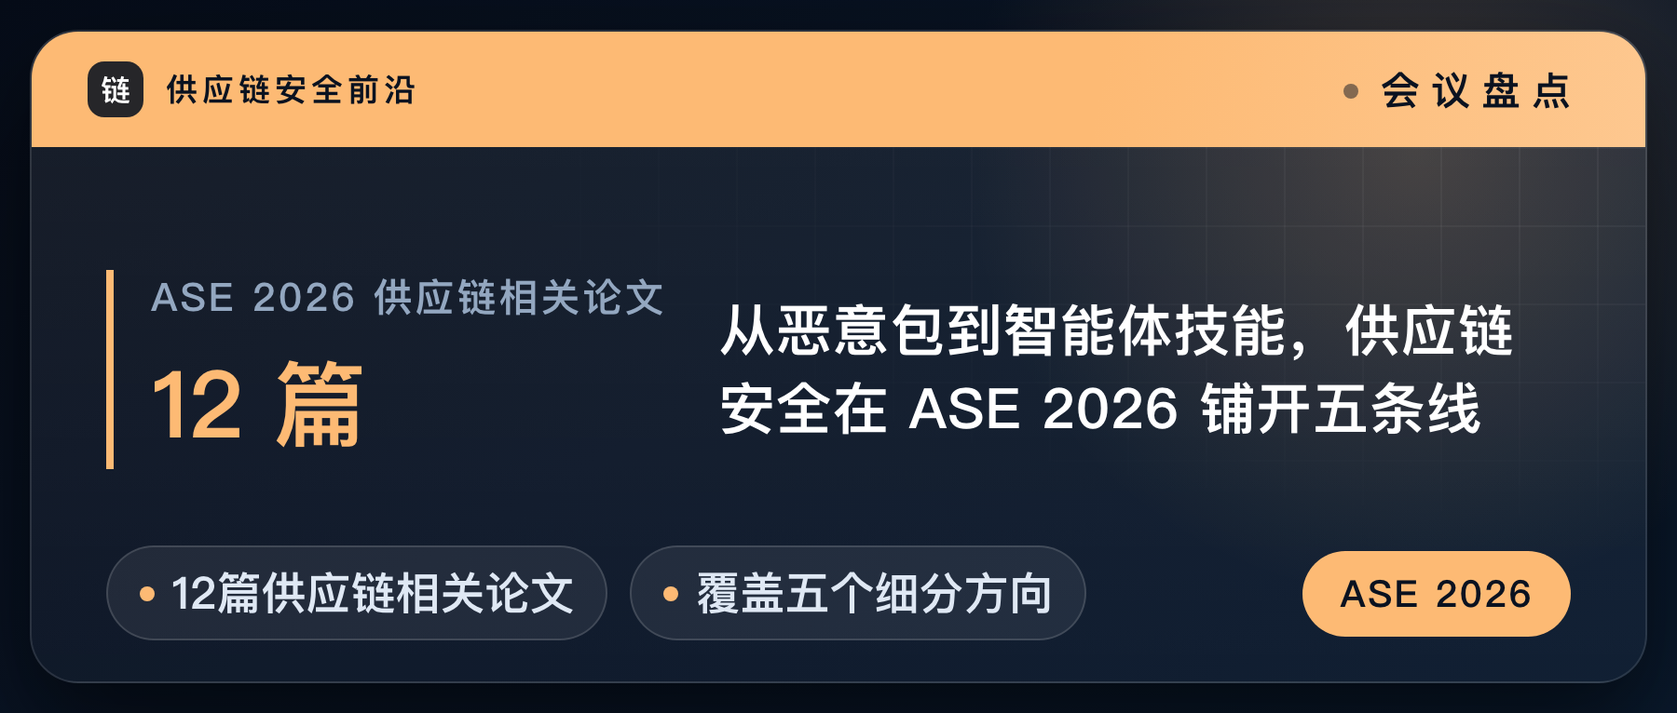
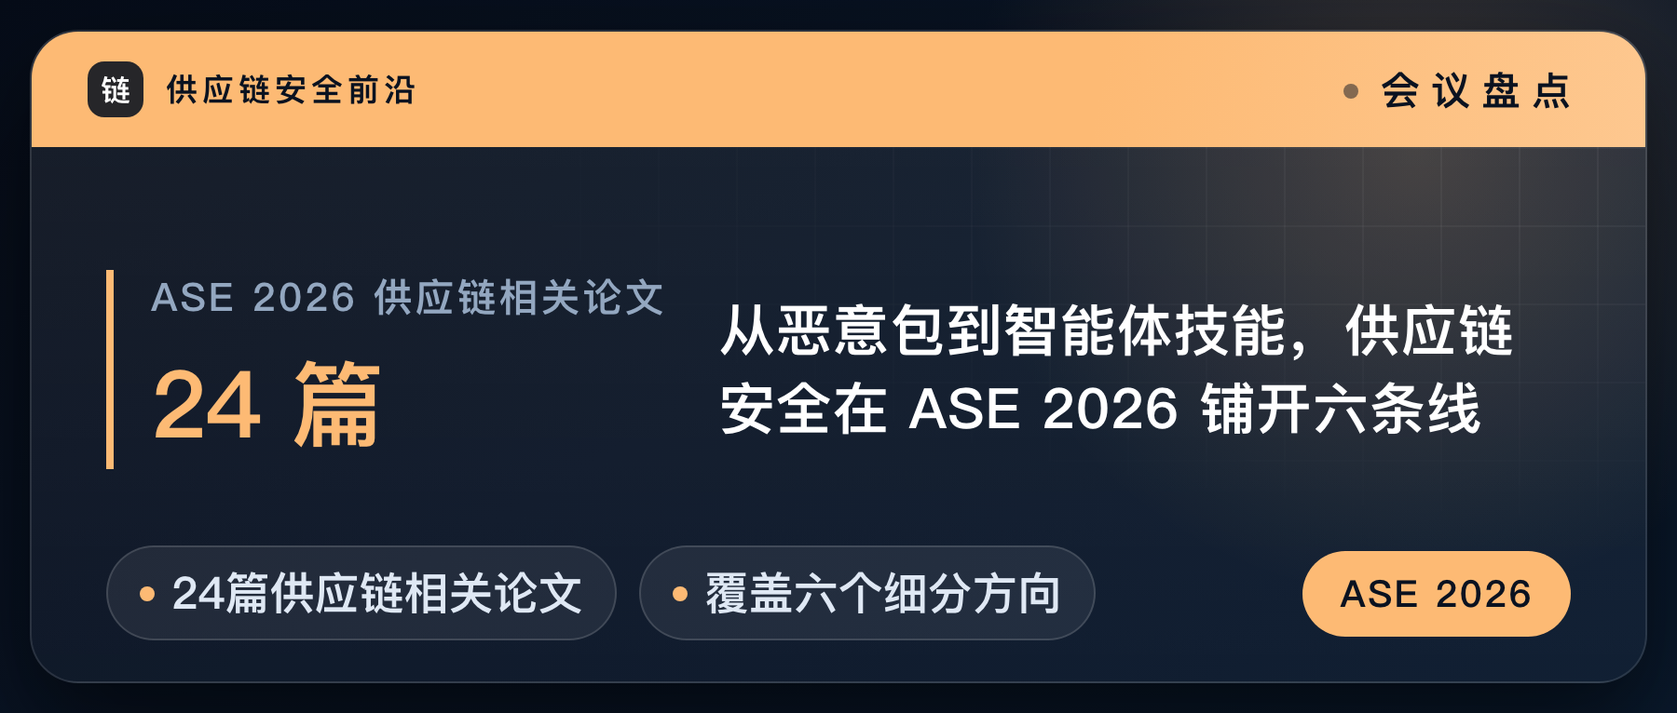
fix: 盘点文章去掉"单位没核实到"那节，全部并入正文并补齐导读
原来把 12 篇核到单位的放正表、8 篇没核到的只列标题堆在末尾，还专门解释了
为什么核不到。这个处理有两个毛病：末尾那批没有导读，读者看到一串光秃秃的
标题不知道是什么；而且把"作者单位"这个次要信息抬得太高，喧宾夺主。

改成：所有论文一律用卡片写，每篇都有导读，单位只在核实到时标注、核不到就不写。
Industry Showcase 轨那 4 篇也从一段流水账改成了独立卡片。

- 12 篇扩到 24 篇，分组从五组调成六组，新增"签名与发布防线"一组
  （签名信任验证 / 签名密钥保护 / commit-release 抓后门，今年这条线明显变粗）
- 概览图和封面数字同步更新为 24 篇
- 点评补了一段"信任根这条线变粗"的观察

Claude-Session: https://claude.ai/code/session_01RFo7RVhkE2z328iVJYUyTW

diff --git a/roundups/2026-08-ase2026-supply-chain/article.html b/roundups/2026-08-ase2026-supply-chain/article.html
@@ -1,1 +1,1 @@
-<section style="font-family:-apple-system,BlinkMacSystemFont,&quot;PingFang SC&quot;,sans-serif;padding:4px 2px;"><section style="margin:8px 0 28px;"><p style="margin:0 0 12px;font-size:12px;color:#94a3b8;letter-spacing:2px;">本文看点</p><section style="display:flex;"><section style="flex:1;background:#f7f9fb;border-top:3px solid #ea580c;border-radius:4px;padding:12px 10px;margin:0 4px;"><p style="margin:0;font-size:12px;color:#94a3b8;">01</p><p style="margin:6px 0 0;font-size:13px;font-weight:600;color:#333;line-height:1.5;">12篇供应链相关论文</p></section><section style="flex:1;background:#f7f9fb;border-top:3px solid #ea580c;border-radius:4px;padding:12px 10px;margin:0 4px;"><p style="margin:0;font-size:12px;color:#94a3b8;">02</p><p style="margin:6px 0 0;font-size:13px;font-weight:600;color:#333;line-height:1.5;">覆盖五个细分方向</p></section><section style="flex:1;background:#f7f9fb;border-top:3px solid #ea580c;border-radius:4px;padding:12px 10px;margin:0 4px;"><p style="margin:0;font-size:12px;color:#94a3b8;">03</p><p style="margin:6px 0 0;font-size:13px;font-weight:600;color:#333;line-height:1.5;">智能体供应链已成一支</p></section></section></section><section style="margin:36px 0 20px;"><p style="margin:0;font-size:44px;font-weight:800;color:#e2e8f0;line-height:1;">01</p><p style="margin:2px 0 0;font-size:11px;letter-spacing:3px;color:#94a3b8;">LIST INFO</p><p style="margin:6px 0 0;font-size:20px;font-weight:700;color:#222;">本期说明</p><section style="width:36px;height:3px;background:#ea580c;margin-top:8px;"></section></section><p style="margin:0 0 20px;font-size:15px;line-height:1.9;color:#3f3f3f;letter-spacing:.5px;text-align:justify;">【会议】ASE 2026，第 41 届 IEEE/ACM 自动化软件工程国际会议，2026 年 10 月 12 日至 16 日，德国慕尼黑<br/>【来源】ASE 2026 官方接收论文列表（研究轨与 Industry Showcase 轨）<br/>【口径】只收与<strong style="color:#ea580c;">软件供应链安全</strong>直接相关的，通用漏洞检测、模糊测试、程序修复这些即便沾安全也不收</p><section style="margin:20px 0;text-align:center;"><img src="assets/overview.png" style="max-width:100%;border-radius:4px;" /><p style="margin:8px 0 0;font-size:12px;color:#888888;text-align:center;line-height:1.6;">— ASE 2026 供应链相关论文的主题分布</p></section><p style="margin:0 0 20px;font-size:15px;line-height:1.9;color:#3f3f3f;letter-spacing:.5px;text-align:justify;">先把两件事说在前面，免得误导。</p><p style="margin:0 0 20px;font-size:15px;line-height:1.9;color:#3f3f3f;letter-spacing:.5px;text-align:justify;">其一，<strong style="color:#ea580c;">这份名单是我逐篇核过的，但不敢说全</strong>。ASE 2026 研究轨接收了 200 多篇，官方页面只给标题和作者名、不给单位，我是把接收列表按字母顺序整个过了一遍再自己判断相关性，不是丢几个关键词让工具筛。但抓取受限，字母 Q 到 Z 那一段我没能完整拿到，<strong style="color:#dc2626;">所以这一期确定覆盖 A 到 P，后半段可能有遗漏</strong>，欢迎在留言区补。</p><p style="margin:0 0 20px;font-size:15px;line-height:1.9;color:#3f3f3f;letter-spacing:.5px;text-align:justify;">其二，<strong style="color:#ea580c;">多数论文全文还没公开</strong>，ASE 要到十月才开会。所以下面每篇的介绍分两种：本账号已经读过全文的，写的是实际内容；其余的，介绍严格限制在标题和作者团队背景能支撑的范围内，不替作者把结论说满。凡是我核不到单位的，宁可不写进正表。</p><section style="margin:36px 0 20px;"><p style="margin:0;font-size:44px;font-weight:800;color:#e2e8f0;line-height:1;">02</p><p style="margin:2px 0 0;font-size:11px;letter-spacing:3px;color:#94a3b8;">PACKAGES</p><p style="margin:6px 0 0;font-size:20px;font-weight:700;color:#222;">包与生态治理</p><section style="width:36px;height:3px;background:#ea580c;margin-top:8px;"></section></section><section style="margin:18px 0;background:#f7f9fb;border-left:4px solid #ea580c;border-radius:0 6px 6px 0;padding:14px 18px;"><p style="margin:0;font-size:11px;letter-spacing:2px;color:#94a3b8;">01</p><p style="margin:4px 0 0;font-size:15px;font-weight:700;color:#1f2937;line-height:1.55;">How Effective Are NPM Malicious Package Detectors? A Large-Scale Empirical Study</p><p style="margin:10px 0 0;padding-bottom:9px;border-bottom:1px solid #e3e8ee;font-size:13px;color:#ea580c;font-weight:600;line-height:1.6;">南洋理工大学、四川大学、南开大学、新加坡管理大学、Imperial Global Singapore</p><p style="margin:11px 0 0;font-size:14px;line-height:1.85;color:#3f3f3f;letter-spacing:.3px;text-align:justify;">NPM 恶意包检测工具这几年出了一堆，但各自在不同数据集、不同口径上自评，横向没法比。这篇把它们拉到统一数据集和统一设置下做大规模实测。<strong style="color:#ea580c;">本账号已解读过</strong>，结论对做检测的人挺不客气。</p></section><section style="margin:18px 0;background:#f7f9fb;border-left:4px solid #ea580c;border-radius:0 6px 6px 0;padding:14px 18px;"><p style="margin:0;font-size:11px;letter-spacing:2px;color:#94a3b8;">02</p><p style="margin:4px 0 0;font-size:15px;font-weight:700;color:#1f2937;line-height:1.55;">GANADI: Uncovering C/C++ OSS Reuse Genealogies via Pivotal Function-Based Clustering to Enhance Supply Chain Security</p><p style="margin:10px 0 0;padding-bottom:9px;border-bottom:1px solid #e3e8ee;font-size:13px;color:#ea580c;font-weight:600;line-height:1.6;">高丽大学</p><p style="margin:11px 0 0;font-size:14px;line-height:1.85;color:#3f3f3f;letter-spacing:.3px;text-align:justify;">C/C++ 世界没有统一的包管理器，代码复用大量靠复制粘贴和 vendoring，所以"这段代码到底源自哪个上游项目"是个真问题，也是漏洞传播分析的前提。这篇用关键函数聚类去还原开源代码的<strong style="color:#ea580c;">复用谱系</strong>。高丽大学这个组在 C/C++ 复用与漏洞传播方向做了很多年。</p></section><section style="margin:18px 0;background:#f7f9fb;border-left:4px solid #ea580c;border-radius:0 6px 6px 0;padding:14px 18px;"><p style="margin:0;font-size:11px;letter-spacing:2px;color:#94a3b8;">03</p><p style="margin:4px 0 0;font-size:15px;font-weight:700;color:#1f2937;line-height:1.55;">ATLAS: Agentic Taxonomy of LArge-Scale Software Ecosystems</p><p style="margin:10px 0 0;padding-bottom:9px;border-bottom:1px solid #e3e8ee;font-size:13px;color:#ea580c;font-weight:600;line-height:1.6;">南开大学、南洋理工大学</p><p style="margin:11px 0 0;font-size:14px;line-height:1.85;color:#3f3f3f;letter-spacing:.3px;text-align:justify;">用智能体给大规模软件生态自动建<strong style="color:#ea580c;">分类体系</strong>。生态治理的第一步是知道生态里有什么、怎么分类，这类基础设施性质的工作往往被低估，但下游的风险度量、依赖分析都依赖它。</p></section><section style="margin:36px 0 20px;"><p style="margin:0;font-size:44px;font-weight:800;color:#e2e8f0;line-height:1;">03</p><p style="margin:2px 0 0;font-size:11px;letter-spacing:3px;color:#94a3b8;">AGENTS</p><p style="margin:6px 0 0;font-size:20px;font-weight:700;color:#222;">智能体供应链</p><section style="width:36px;height:3px;background:#ea580c;margin-top:8px;"></section></section><p style="margin:0 0 20px;font-size:15px;line-height:1.9;color:#3f3f3f;letter-spacing:.5px;text-align:justify;">这是这批里最新的一支，三篇全是围绕 Agent Skill 生态的。</p><section style="margin:18px 0;background:#f7f9fb;border-left:4px solid #ea580c;border-radius:0 6px 6px 0;padding:14px 18px;"><p style="margin:0;font-size:11px;letter-spacing:2px;color:#94a3b8;">04</p><p style="margin:4px 0 0;font-size:15px;font-weight:700;color:#1f2937;line-height:1.55;">MalSkills: Detecting Malicious Skills in the Agentic Supply Chain via Neuro-symbolic Reasoning</p><p style="margin:10px 0 0;padding-bottom:9px;border-bottom:1px solid #e3e8ee;font-size:13px;color:#ea580c;font-weight:600;line-height:1.6;">华中科技大学、蚂蚁集团</p><p style="margin:11px 0 0;font-size:14px;line-height:1.85;color:#3f3f3f;letter-spacing:.3px;text-align:justify;">用神经符号推理检测恶意技能：先从异构制品里抽出安全敏感操作，再做符号推理判定。<strong style="color:#ea580c;">本账号已解读过</strong>，不过要注意，<strong style="color:#dc2626;">它的预印本标题和 ASE 正式版完全不同</strong>（预印本叫《"Elementary, My Dear Watson."…》），同一批作者、同一个系统。这正是查论文时最容易踩的坑：只匹配标题会把同一篇当成两篇。</p></section><section style="margin:18px 0;background:#f7f9fb;border-left:4px solid #ea580c;border-radius:0 6px 6px 0;padding:14px 18px;"><p style="margin:0;font-size:11px;letter-spacing:2px;color:#94a3b8;">05</p><p style="margin:4px 0 0;font-size:15px;font-weight:700;color:#1f2937;line-height:1.55;">Latent Reuse in Agent Skills: Multi-modal Clone Detection at Ecosystem Scale</p><p style="margin:10px 0 0;padding-bottom:9px;border-bottom:1px solid #e3e8ee;font-size:13px;color:#ea580c;font-weight:600;line-height:1.6;">南洋理工大学</p><p style="margin:11px 0 0;font-size:14px;line-height:1.85;color:#3f3f3f;letter-spacing:.3px;text-align:justify;">在整个技能生态尺度上做<strong style="color:#ea580c;">多模态克隆检测</strong>。技能不是纯代码，是提示词、脚本、配置和资源的混合体，传统代码克隆检测的那套在这里不够用。找出"哪些技能其实是同一份东西的变体"，对追踪恶意技能的扩散和评估生态真实多样性都是前置能力。</p></section><section style="margin:18px 0;background:#f7f9fb;border-left:4px solid #ea580c;border-radius:0 6px 6px 0;padding:14px 18px;"><p style="margin:0;font-size:11px;letter-spacing:2px;color:#94a3b8;">06</p><p style="margin:4px 0 0;font-size:15px;font-weight:700;color:#1f2937;line-height:1.55;">How Your Credentials Are Leaked by LLM Agent Skills: An Empirical Study</p><p style="margin:10px 0 0;padding-bottom:9px;border-bottom:1px solid #e3e8ee;font-size:13px;color:#ea580c;font-weight:600;line-height:1.6;">格里菲斯大学、维克森林大学、南洋理工大学、新南威尔士大学等</p><p style="margin:11px 0 0;font-size:14px;line-height:1.85;color:#3f3f3f;letter-spacing:.3px;text-align:justify;">第一个针对智能体技能<strong style="color:#ea580c;">凭据泄露</strong>的大规模实证研究。技能运行在特权环境里、日常要处理敏感凭据，这条路径此前基本没人系统查过。<strong style="color:#ea580c;">本账号已解读过</strong>。</p></section><section style="margin:36px 0 20px;"><p style="margin:0;font-size:44px;font-weight:800;color:#e2e8f0;line-height:1;">04</p><p style="margin:2px 0 0;font-size:11px;letter-spacing:3px;color:#94a3b8;">DEPS</p><p style="margin:6px 0 0;font-size:20px;font-weight:700;color:#222;">依赖与构建</p><section style="width:36px;height:3px;background:#ea580c;margin-top:8px;"></section></section><section style="margin:18px 0;background:#f7f9fb;border-left:4px solid #ea580c;border-radius:0 6px 6px 0;padding:14px 18px;"><p style="margin:0;font-size:11px;letter-spacing:2px;color:#94a3b8;">07</p><p style="margin:4px 0 0;font-size:15px;font-weight:700;color:#1f2937;line-height:1.55;">Implicit, Yet Impactful: Understanding Hidden Dependencies in Java Projects</p><p style="margin:10px 0 0;padding-bottom:9px;border-bottom:1px solid #e3e8ee;font-size:13px;color:#ea580c;font-weight:600;line-height:1.6;">南洋理工大学、南开大学</p><p style="margin:11px 0 0;font-size:14px;line-height:1.85;color:#3f3f3f;letter-spacing:.3px;text-align:justify;">讲 Java 项目里的<strong style="color:#ea580c;">隐式依赖</strong>：没有写在依赖声明里、但实际被用到的那些。这类依赖是依赖分析和 SBOM 的系统性盲区，声明文件里看不见，可它出问题一样会炸。</p></section><section style="margin:18px 0;background:#f7f9fb;border-left:4px solid #ea580c;border-radius:0 6px 6px 0;padding:14px 18px;"><p style="margin:0;font-size:11px;letter-spacing:2px;color:#94a3b8;">08</p><p style="margin:4px 0 0;font-size:15px;font-weight:700;color:#1f2937;line-height:1.55;">DepUpgrade: Automating Dependency Upgrade through State-Path Exploration</p><p style="margin:10px 0 0;padding-bottom:9px;border-bottom:1px solid #e3e8ee;font-size:13px;color:#ea580c;font-weight:600;line-height:1.6;">北京航空航天大学</p><p style="margin:11px 0 0;font-size:14px;line-height:1.85;color:#3f3f3f;letter-spacing:.3px;text-align:justify;">用状态路径探索来自动化<strong style="color:#ea580c;">依赖升级</strong>。升级依赖是所有供应链安全建议的最后一公里，也是最容易卡住的一环：修复存在、但升不上去。这个方向和补丁回移是同一个问题的两种形态。</p></section><section style="margin:36px 0 20px;"><p style="margin:0;font-size:44px;font-weight:800;color:#e2e8f0;line-height:1;">05</p><p style="margin:2px 0 0;font-size:11px;letter-spacing:3px;color:#94a3b8;">PATCH</p><p style="margin:6px 0 0;font-size:20px;font-weight:700;color:#222;">漏洞与补丁的传播</p><section style="width:36px;height:3px;background:#ea580c;margin-top:8px;"></section></section><section style="margin:18px 0;background:#f7f9fb;border-left:4px solid #ea580c;border-radius:0 6px 6px 0;padding:14px 18px;"><p style="margin:0;font-size:11px;letter-spacing:2px;color:#94a3b8;">09</p><p style="margin:4px 0 0;font-size:15px;font-weight:700;color:#1f2937;line-height:1.55;">Benchmarking Automated Security Patch Backporting: How Far Are We?</p><p style="margin:10px 0 0;padding-bottom:9px;border-bottom:1px solid #e3e8ee;font-size:13px;color:#ea580c;font-weight:600;line-height:1.6;">西安电子科技大学、南开大学、南洋理工大学</p><p style="margin:11px 0 0;font-size:14px;line-height:1.85;color:#3f3f3f;letter-spacing:.3px;text-align:justify;">1234 例真实回移案例的统一基准，把五个自动回移工具拉到同一张考卷上。<strong style="color:#ea580c;">本账号已解读过</strong>，核心结论是对齐评测后成功率集体跳水，结构复杂的补丁只剩 24%。</p></section><section style="margin:18px 0;background:#f7f9fb;border-left:4px solid #ea580c;border-radius:0 6px 6px 0;padding:14px 18px;"><p style="margin:0;font-size:11px;letter-spacing:2px;color:#94a3b8;">10</p><p style="margin:4px 0 0;font-size:15px;font-weight:700;color:#1f2937;line-height:1.55;">One Is Not Enough: The Untold Story of Multiple Security Patches for One Vulnerability</p><p style="margin:10px 0 0;padding-bottom:9px;border-bottom:1px solid #e3e8ee;font-size:13px;color:#ea580c;font-weight:600;line-height:1.6;">南开大学、南洋理工大学</p><p style="margin:11px 0 0;font-size:14px;line-height:1.85;color:#3f3f3f;letter-spacing:.3px;text-align:justify;">一个漏洞<strong style="color:#ea580c;">不止一个补丁</strong>。这件事对下游影响很直接：如果你的扫描器认定"打了某个补丁就算修复"，而上游实际上分了多次提交才补完，那你的合规状态就是假的。这类"看起来已修复"的情形，比未修复更危险。</p></section><section style="margin:18px 0;background:#f7f9fb;border-left:4px solid #ea580c;border-radius:0 6px 6px 0;padding:14px 18px;"><p style="margin:0;font-size:11px;letter-spacing:2px;color:#94a3b8;">11</p><p style="margin:4px 0 0;font-size:15px;font-weight:700;color:#1f2937;line-height:1.55;">Post-quantum Cryptography in the Wild: Assessing the Readiness of Open-Source Ecosystems</p><p style="margin:10px 0 0;padding-bottom:9px;border-bottom:1px solid #e3e8ee;font-size:13px;color:#ea580c;font-weight:600;line-height:1.6;">上海交通大学</p><p style="margin:11px 0 0;font-size:14px;line-height:1.85;color:#3f3f3f;letter-spacing:.3px;text-align:justify;">评估开源生态迁移到<strong style="color:#ea580c;">后量子密码</strong>的就绪度。这是一次超大规模的强制依赖升级预演，牵涉到密码库、协议实现和它们所有的下游，跟前面那两篇讲的是同一类问题：<strong style="color:#ea580c;">修复能不能真的传到底</strong>。</p></section><section style="margin:36px 0 20px;"><p style="margin:0;font-size:44px;font-weight:800;color:#e2e8f0;line-height:1;">06</p><p style="margin:2px 0 0;font-size:11px;letter-spacing:3px;color:#94a3b8;">COMMIT</p><p style="margin:6px 0 0;font-size:20px;font-weight:700;color:#222;">提交与发布防线</p><section style="width:36px;height:3px;background:#ea580c;margin-top:8px;"></section></section><section style="margin:18px 0;background:#f7f9fb;border-left:4px solid #ea580c;border-radius:0 6px 6px 0;padding:14px 18px;"><p style="margin:0;font-size:11px;letter-spacing:2px;color:#94a3b8;">12</p><p style="margin:4px 0 0;font-size:15px;font-weight:700;color:#1f2937;line-height:1.55;">Not In My Git Yard: Catching Backdoors at Commit and Release Time</p><p style="margin:10px 0 0;padding-bottom:9px;border-bottom:1px solid #e3e8ee;font-size:13px;color:#ea580c;font-weight:600;line-height:1.6;">巴黎萨克雷大学、法国原子能委员会 CEA List</p><p style="margin:11px 0 0;font-size:14px;line-height:1.85;color:#3f3f3f;letter-spacing:.3px;text-align:justify;">在<strong style="color:#ea580c;">提交和发布这两个时间点</strong>上抓后门。这个选点很务实：包一旦发布出去，检测就变成了跟分发速度赛跑；而 commit 和 release 是攻击者必须经过的两道闸门，卡在这里成本最低。</p></section><section style="margin:36px 0 20px;"><p style="margin:0;font-size:44px;font-weight:800;color:#e2e8f0;line-height:1;">07</p><p style="margin:2px 0 0;font-size:11px;letter-spacing:3px;color:#94a3b8;">MORE</p><p style="margin:6px 0 0;font-size:20px;font-weight:700;color:#222;">同样相关，但单位没核实到</p><section style="width:36px;height:3px;background:#ea580c;margin-top:8px;"></section></section><p style="margin:0 0 20px;font-size:15px;line-height:1.9;color:#3f3f3f;letter-spacing:.5px;text-align:justify;">下面这些从标题看也属于供应链安全的范畴，但我没能核实到作者单位（researchr 的作者主页有的设了私密，有的重名对不上），按只写核实过的原则没进正表，标题先列在这里供检索：</p><p style="margin:0 0 20px;font-size:15px;line-height:1.9;color:#3f3f3f;letter-spacing:.5px;text-align:justify;">- Context-Aware Trust Verification for Identity-Based Software Signing（软件签名的信任验证）<br/>- Guided Decoding as a Defense against Package Hallucination in LLM-Generated Code（防包幻觉）<br/>- A Longitudinal Study of Android Apps Signing Key Protection（签名密钥保护的纵向研究）<br/>- Defensive Capability Analysis for JavaScript Libraries（JS 库的防御能力分析）<br/>- Execution-as-Configuration: Security Smells in Model Configuration Artifacts（模型配置制品里的安全坏味）<br/>- Assessing the Cross-Version Applicability of Java Library Vulnerability Exploits（Java 库漏洞利用的跨版本适用性）<br/>- Learning to Triage Vulnerability Reports from Program Analysis: An Empirical Study in Node.js（Node.js 漏洞报告分诊）<br/>- "Impossible to Hide Secret ...": Uncovering Security and Privacy Issues in LLM-Native IDEs（AI 原生 IDE 的安全与隐私问题）</p><p style="margin:0 0 20px;font-size:15px;line-height:1.9;color:#3f3f3f;letter-spacing:.5px;text-align:justify;">Industry Showcase 轨里也有几篇沾边的，一并记下：DepWareTrans（依赖感知的跨语言仓库迁移）、AgenticSCR（自主智能体做安全代码审查）、Vulnerability Tracking using Normalized Scope+Offset（漏洞追踪）、An Empirical Study of Security Risks in the Android Push Notification Ecosystem（安卓推送生态的安全风险）。</p><section style="margin:36px 0 20px;"><p style="margin:0;font-size:44px;font-weight:800;color:#e2e8f0;line-height:1;">08</p><p style="margin:2px 0 0;font-size:11px;letter-spacing:3px;color:#94a3b8;">TAKEAWAYS</p><p style="margin:6px 0 0;font-size:20px;font-weight:700;color:#222;">一点观察</p><section style="width:36px;height:3px;background:#ea580c;margin-top:8px;"></section></section><p style="margin:0 0 20px;font-size:15px;line-height:1.9;color:#3f3f3f;letter-spacing:.5px;text-align:justify;"><strong style="color:#ea580c;">智能体供应链已经单独成一支了。</strong> 三篇 Agent Skill 相关的论文进入 ASE 主轨，而且分工很清楚：一篇做恶意检测，一篇做生态级克隆识别，一篇做凭据泄露实证。这个结构和十年前包生态刚起步时几乎一模一样，先有人发现恶意样本，再有人做规模化测量，然后才是检测工具和治理机制。<strong style="color:#dc2626;">技能生态正在用比包生态快得多的速度，重走同一条路</strong>。</p><p style="margin:0 0 20px;font-size:15px;line-height:1.9;color:#3f3f3f;letter-spacing:.5px;text-align:justify;"><strong style="color:#ea580c;">"修复传不到底"是这批论文最集中的母题。</strong> 补丁回移、一个漏洞多个补丁、依赖升级自动化、后量子迁移就绪度，四篇讲的其实是同一件事的不同切面：漏洞的修复往往是存在的，真正的风险在于它到不了所有下游。这个判断从数据上比"某某组件有漏洞"要更有行动价值，因为它指向的是流程和工具，而不是某一个具体的洞。</p><p style="margin:0 0 20px;font-size:15px;line-height:1.9;color:#3f3f3f;letter-spacing:.5px;text-align:justify;"><strong style="color:#ea580c;">方法论上有个共同转向：从"检测单个制品"转向"理解整个生态的结构"。</strong> 复用谱系、生态分类体系、隐式依赖、克隆关系，这几篇都不是在判断某个包是好是坏，而是在还原"谁来自谁、谁包含谁"。这种结构性知识才是风险传播分析的底座，也是目前最缺的基础设施。</p><p style="margin:0 0 20px;font-size:15px;line-height:1.9;color:#3f3f3f;letter-spacing:.5px;text-align:justify;"><strong style="color:#ea580c;">最后一句关于团队分布</strong>：南开大学和南洋理工大学的团队在这批里出现得最密集，多篇之间还互为合作。国内做软件供应链安全的力量已经在顶会形成了稳定的输出，这在几年前还看不到。</p></section>
+<section style="font-family:-apple-system,BlinkMacSystemFont,&quot;PingFang SC&quot;,sans-serif;padding:4px 2px;"><section style="margin:8px 0 28px;"><p style="margin:0 0 12px;font-size:12px;color:#94a3b8;letter-spacing:2px;">本文看点</p><section style="display:flex;"><section style="flex:1;background:#f7f9fb;border-top:3px solid #ea580c;border-radius:4px;padding:12px 10px;margin:0 4px;"><p style="margin:0;font-size:12px;color:#94a3b8;">01</p><p style="margin:6px 0 0;font-size:13px;font-weight:600;color:#333;line-height:1.5;">24篇供应链相关论文</p></section><section style="flex:1;background:#f7f9fb;border-top:3px solid #ea580c;border-radius:4px;padding:12px 10px;margin:0 4px;"><p style="margin:0;font-size:12px;color:#94a3b8;">02</p><p style="margin:6px 0 0;font-size:13px;font-weight:600;color:#333;line-height:1.5;">覆盖六个细分方向</p></section><section style="flex:1;background:#f7f9fb;border-top:3px solid #ea580c;border-radius:4px;padding:12px 10px;margin:0 4px;"><p style="margin:0;font-size:12px;color:#94a3b8;">03</p><p style="margin:6px 0 0;font-size:13px;font-weight:600;color:#333;line-height:1.5;">智能体供应链已成一支</p></section></section></section><section style="margin:36px 0 20px;"><p style="margin:0;font-size:44px;font-weight:800;color:#e2e8f0;line-height:1;">01</p><p style="margin:2px 0 0;font-size:11px;letter-spacing:3px;color:#94a3b8;">LIST INFO</p><p style="margin:6px 0 0;font-size:20px;font-weight:700;color:#222;">本期说明</p><section style="width:36px;height:3px;background:#ea580c;margin-top:8px;"></section></section><p style="margin:0 0 20px;font-size:15px;line-height:1.9;color:#3f3f3f;letter-spacing:.5px;text-align:justify;">【会议】ASE 2026，第 41 届 IEEE/ACM 自动化软件工程国际会议，2026 年 10 月 12 日至 16 日，德国慕尼黑<br/>【来源】ASE 2026 官方接收论文列表（研究轨与 Industry Showcase 轨）<br/>【口径】只收与<strong style="color:#ea580c;">软件供应链安全</strong>直接相关的，通用漏洞检测、模糊测试、程序修复这些即便沾安全也不收</p><section style="margin:20px 0;text-align:center;"><img src="assets/overview.png" style="max-width:100%;border-radius:4px;" /><p style="margin:8px 0 0;font-size:12px;color:#888888;text-align:center;line-height:1.6;">— ASE 2026 供应链相关论文的主题分布</p></section><p style="margin:0 0 20px;font-size:15px;line-height:1.9;color:#3f3f3f;letter-spacing:.5px;text-align:justify;">先把两件事说在前面，免得误导。</p><p style="margin:0 0 20px;font-size:15px;line-height:1.9;color:#3f3f3f;letter-spacing:.5px;text-align:justify;">其一，<strong style="color:#ea580c;">这份名单是逐篇过出来的，但不敢说全</strong>。ASE 2026 研究轨接收了 200 多篇，我是把接收列表按字母顺序整个过了一遍再自己判断相关性，不是丢几个关键词让工具筛。但抓取受限，字母 Q 到 Z 那一段没能完整拿到，<strong style="color:#dc2626;">所以这一期确定覆盖 A 到 P，后半段可能有遗漏</strong>，欢迎在留言区补。</p><p style="margin:0 0 20px;font-size:15px;line-height:1.9;color:#3f3f3f;letter-spacing:.5px;text-align:justify;">其二，<strong style="color:#ea580c;">多数论文全文还没公开</strong>，ASE 要到十月才开会。所以下面每篇的介绍分两种：本账号已经读过全文的，写的是实际内容；其余的，介绍严格限制在标题能支撑的范围内，不替作者把结论说满。作者单位只在核实到的时候标注。</p><section style="margin:36px 0 20px;"><p style="margin:0;font-size:44px;font-weight:800;color:#e2e8f0;line-height:1;">02</p><p style="margin:2px 0 0;font-size:11px;letter-spacing:3px;color:#94a3b8;">PACKAGES</p><p style="margin:6px 0 0;font-size:20px;font-weight:700;color:#222;">包与生态治理</p><section style="width:36px;height:3px;background:#ea580c;margin-top:8px;"></section></section><section style="margin:18px 0;background:#f7f9fb;border-left:4px solid #ea580c;border-radius:0 6px 6px 0;padding:14px 18px;"><p style="margin:0;font-size:11px;letter-spacing:2px;color:#94a3b8;">01</p><p style="margin:4px 0 0;font-size:15px;font-weight:700;color:#1f2937;line-height:1.55;">How Effective Are NPM Malicious Package Detectors? A Large-Scale Empirical Study</p><p style="margin:10px 0 0;padding-bottom:9px;border-bottom:1px solid #e3e8ee;font-size:13px;color:#ea580c;font-weight:600;line-height:1.6;">南洋理工大学、四川大学、南开大学、新加坡管理大学、Imperial Global Singapore</p><p style="margin:11px 0 0;font-size:14px;line-height:1.85;color:#3f3f3f;letter-spacing:.3px;text-align:justify;">NPM 恶意包检测工具这几年出了一堆，但各自在不同数据集、不同口径上自评，横向没法比。这篇把它们拉到统一数据集和统一设置下做大规模实测。<strong style="color:#ea580c;">本账号已解读过</strong>，结论对做检测的人挺不客气。</p></section><section style="margin:18px 0;background:#f7f9fb;border-left:4px solid #ea580c;border-radius:0 6px 6px 0;padding:14px 18px;"><p style="margin:0;font-size:11px;letter-spacing:2px;color:#94a3b8;">02</p><p style="margin:4px 0 0;font-size:15px;font-weight:700;color:#1f2937;line-height:1.55;">GANADI: Uncovering C/C++ OSS Reuse Genealogies via Pivotal Function-Based Clustering to Enhance Supply Chain Security</p><p style="margin:10px 0 0;padding-bottom:9px;border-bottom:1px solid #e3e8ee;font-size:13px;color:#ea580c;font-weight:600;line-height:1.6;">高丽大学</p><p style="margin:11px 0 0;font-size:14px;line-height:1.85;color:#3f3f3f;letter-spacing:.3px;text-align:justify;">C/C++ 世界没有统一的包管理器，代码复用大量靠复制粘贴和 vendoring，所以"这段代码到底源自哪个上游项目"是个真问题，也是漏洞传播分析的前提。这篇用关键函数聚类去还原开源代码的<strong style="color:#ea580c;">复用谱系</strong>。</p></section><section style="margin:18px 0;background:#f7f9fb;border-left:4px solid #ea580c;border-radius:0 6px 6px 0;padding:14px 18px;"><p style="margin:0;font-size:11px;letter-spacing:2px;color:#94a3b8;">03</p><p style="margin:4px 0 0;font-size:15px;font-weight:700;color:#1f2937;line-height:1.55;">ATLAS: Agentic Taxonomy of LArge-Scale Software Ecosystems</p><p style="margin:10px 0 0;padding-bottom:9px;border-bottom:1px solid #e3e8ee;font-size:13px;color:#ea580c;font-weight:600;line-height:1.6;">南开大学、南洋理工大学</p><p style="margin:11px 0 0;font-size:14px;line-height:1.85;color:#3f3f3f;letter-spacing:.3px;text-align:justify;">用智能体给大规模软件生态自动建<strong style="color:#ea580c;">分类体系</strong>。生态治理的第一步是知道生态里有什么、怎么分类，这类基础设施性质的工作往往被低估，但下游的风险度量、依赖分析都依赖它。</p></section><section style="margin:18px 0;background:#f7f9fb;border-left:4px solid #ea580c;border-radius:0 6px 6px 0;padding:14px 18px;"><p style="margin:0;font-size:11px;letter-spacing:2px;color:#94a3b8;">04</p><p style="margin:4px 0 0;font-size:15px;font-weight:700;color:#1f2937;line-height:1.55;">Guided Decoding as a Defense against Package Hallucination in LLM-Generated Code</p><p style="margin:10px 0 0;padding-bottom:9px;border-bottom:1px solid #e3e8ee;font-size:13px;color:#ea580c;font-weight:600;line-height:1.6;">大模型写代码时会凭空编出根本不存在的依赖包，攻击者只要抢注这些名字就能坐等开发者装上门。这篇不是事后检测，而是在<strong style="color:#ea580c;">解码阶段</strong>就约束模型只生成真实存在的包名，把幻觉堵在生成环节。本账号解读过包幻觉的大规模实证，这篇正好是防御侧的对应工作。</p></section><section style="margin:18px 0;background:#f7f9fb;border-left:4px solid #ea580c;border-radius:0 6px 6px 0;padding:14px 18px;"><p style="margin:0;font-size:11px;letter-spacing:2px;color:#94a3b8;">05</p><p style="margin:4px 0 0;font-size:15px;font-weight:700;color:#1f2937;line-height:1.55;">Defensive Capability Analysis for JavaScript Libraries</p><p style="margin:10px 0 0;padding-bottom:9px;border-bottom:1px solid #e3e8ee;font-size:13px;color:#ea580c;font-weight:600;line-height:1.6;">分析 JavaScript 库自身的<strong style="color:#ea580c;">防御能力</strong>。同样是被依赖的库，有的对恶意输入和滥用有防护，有的完全不设防，而下游在选型时几乎看不到这个维度。把库的防御能力量化出来，本质上是给依赖选型补一个此前缺失的指标。</p></section><section style="margin:36px 0 20px;"><p style="margin:0;font-size:44px;font-weight:800;color:#e2e8f0;line-height:1;">03</p><p style="margin:2px 0 0;font-size:11px;letter-spacing:3px;color:#94a3b8;">AGENTS</p><p style="margin:6px 0 0;font-size:20px;font-weight:700;color:#222;">智能体与模型供应链</p><section style="width:36px;height:3px;background:#ea580c;margin-top:8px;"></section></section><p style="margin:0 0 20px;font-size:15px;line-height:1.9;color:#3f3f3f;letter-spacing:.5px;text-align:justify;">这是这批里最新的一支，围绕 Agent Skill 生态和模型制品展开。</p><section style="margin:18px 0;background:#f7f9fb;border-left:4px solid #ea580c;border-radius:0 6px 6px 0;padding:14px 18px;"><p style="margin:0;font-size:11px;letter-spacing:2px;color:#94a3b8;">06</p><p style="margin:4px 0 0;font-size:15px;font-weight:700;color:#1f2937;line-height:1.55;">MalSkills: Detecting Malicious Skills in the Agentic Supply Chain via Neuro-symbolic Reasoning</p><p style="margin:10px 0 0;padding-bottom:9px;border-bottom:1px solid #e3e8ee;font-size:13px;color:#ea580c;font-weight:600;line-height:1.6;">华中科技大学、蚂蚁集团</p><p style="margin:11px 0 0;font-size:14px;line-height:1.85;color:#3f3f3f;letter-spacing:.3px;text-align:justify;">用神经符号推理检测恶意技能：先从异构制品里抽出安全敏感操作，再做符号推理判定。<strong style="color:#ea580c;">本账号已解读过</strong>，不过要注意，<strong style="color:#dc2626;">它的预印本标题和 ASE 正式版完全不同</strong>（预印本叫《"Elementary, My Dear Watson."…》），同一批作者、同一个系统。这正是查论文最容易踩的坑：只匹配标题会把同一篇当成两篇。</p></section><section style="margin:18px 0;background:#f7f9fb;border-left:4px solid #ea580c;border-radius:0 6px 6px 0;padding:14px 18px;"><p style="margin:0;font-size:11px;letter-spacing:2px;color:#94a3b8;">07</p><p style="margin:4px 0 0;font-size:15px;font-weight:700;color:#1f2937;line-height:1.55;">Latent Reuse in Agent Skills: Multi-modal Clone Detection at Ecosystem Scale</p><p style="margin:10px 0 0;padding-bottom:9px;border-bottom:1px solid #e3e8ee;font-size:13px;color:#ea580c;font-weight:600;line-height:1.6;">南洋理工大学</p><p style="margin:11px 0 0;font-size:14px;line-height:1.85;color:#3f3f3f;letter-spacing:.3px;text-align:justify;">在整个技能生态尺度上做<strong style="color:#ea580c;">多模态克隆检测</strong>。技能不是纯代码，是提示词、脚本、配置和资源的混合体，传统代码克隆检测的那套在这里不够用。找出"哪些技能其实是同一份东西的变体"，对追踪恶意技能的扩散和评估生态真实多样性都是前置能力。</p></section><section style="margin:18px 0;background:#f7f9fb;border-left:4px solid #ea580c;border-radius:0 6px 6px 0;padding:14px 18px;"><p style="margin:0;font-size:11px;letter-spacing:2px;color:#94a3b8;">08</p><p style="margin:4px 0 0;font-size:15px;font-weight:700;color:#1f2937;line-height:1.55;">How Your Credentials Are Leaked by LLM Agent Skills: An Empirical Study</p><p style="margin:10px 0 0;padding-bottom:9px;border-bottom:1px solid #e3e8ee;font-size:13px;color:#ea580c;font-weight:600;line-height:1.6;">格里菲斯大学、维克森林大学、南洋理工大学、新南威尔士大学等</p><p style="margin:11px 0 0;font-size:14px;line-height:1.85;color:#3f3f3f;letter-spacing:.3px;text-align:justify;">第一个针对智能体技能<strong style="color:#ea580c;">凭据泄露</strong>的大规模实证研究。技能运行在特权环境里、日常要处理敏感凭据，这条路径此前基本没人系统查过。<strong style="color:#ea580c;">本账号已解读过</strong>。</p></section><section style="margin:18px 0;background:#f7f9fb;border-left:4px solid #ea580c;border-radius:0 6px 6px 0;padding:14px 18px;"><p style="margin:0;font-size:11px;letter-spacing:2px;color:#94a3b8;">09</p><p style="margin:4px 0 0;font-size:15px;font-weight:700;color:#1f2937;line-height:1.55;">Execution-as-Configuration: Security Smells in Model Configuration Artifacts</p><p style="margin:10px 0 0;padding-bottom:9px;border-bottom:1px solid #e3e8ee;font-size:13px;color:#ea580c;font-weight:600;line-height:1.6;">模型的配置文件正在变成一种可执行制品：它决定加载什么权重、拉取什么远程资源、以什么权限跑起来。这篇把配置制品里的<strong style="color:#ea580c;">安全坏味</strong>系统梳理了一遍。配置往往不在任何审计范围内，却握着实际的执行权，这个错位正是它值得单独研究的原因。</p></section><section style="margin:18px 0;background:#f7f9fb;border-left:4px solid #ea580c;border-radius:0 6px 6px 0;padding:14px 18px;"><p style="margin:0;font-size:11px;letter-spacing:2px;color:#94a3b8;">10</p><p style="margin:4px 0 0;font-size:15px;font-weight:700;color:#1f2937;line-height:1.55;">"Impossible to Hide Secret ...": Uncovering Security and Privacy Issues in LLM-Native IDEs</p><p style="margin:10px 0 0;padding-bottom:9px;border-bottom:1px solid #e3e8ee;font-size:13px;color:#ea580c;font-weight:600;line-height:1.6;">AI 原生 IDE 把模型、插件、远程服务和你的整个代码库接在了一起，开发环境本身成了新的攻击面。这篇系统梳理这类 IDE 的<strong style="color:#ea580c;">安全与隐私问题</strong>。对供应链来说这一环很关键：开发环境是所有代码的上游，它一旦被污染，后面每一次提交都带着问题。</p></section><section style="margin:36px 0 20px;"><p style="margin:0;font-size:44px;font-weight:800;color:#e2e8f0;line-height:1;">04</p><p style="margin:2px 0 0;font-size:11px;letter-spacing:3px;color:#94a3b8;">DEPS</p><p style="margin:6px 0 0;font-size:20px;font-weight:700;color:#222;">依赖与构建</p><section style="width:36px;height:3px;background:#ea580c;margin-top:8px;"></section></section><section style="margin:18px 0;background:#f7f9fb;border-left:4px solid #ea580c;border-radius:0 6px 6px 0;padding:14px 18px;"><p style="margin:0;font-size:11px;letter-spacing:2px;color:#94a3b8;">11</p><p style="margin:4px 0 0;font-size:15px;font-weight:700;color:#1f2937;line-height:1.55;">Implicit, Yet Impactful: Understanding Hidden Dependencies in Java Projects</p><p style="margin:10px 0 0;padding-bottom:9px;border-bottom:1px solid #e3e8ee;font-size:13px;color:#ea580c;font-weight:600;line-height:1.6;">南洋理工大学、南开大学</p><p style="margin:11px 0 0;font-size:14px;line-height:1.85;color:#3f3f3f;letter-spacing:.3px;text-align:justify;">讲 Java 项目里的<strong style="color:#ea580c;">隐式依赖</strong>：没有写在依赖声明里、但实际被用到的那些。这类依赖是依赖分析和 SBOM 的系统性盲区，声明文件里看不见，可它出问题一样会炸。</p></section><section style="margin:18px 0;background:#f7f9fb;border-left:4px solid #ea580c;border-radius:0 6px 6px 0;padding:14px 18px;"><p style="margin:0;font-size:11px;letter-spacing:2px;color:#94a3b8;">12</p><p style="margin:4px 0 0;font-size:15px;font-weight:700;color:#1f2937;line-height:1.55;">DepUpgrade: Automating Dependency Upgrade through State-Path Exploration</p><p style="margin:10px 0 0;padding-bottom:9px;border-bottom:1px solid #e3e8ee;font-size:13px;color:#ea580c;font-weight:600;line-height:1.6;">北京航空航天大学</p><p style="margin:11px 0 0;font-size:14px;line-height:1.85;color:#3f3f3f;letter-spacing:.3px;text-align:justify;">用状态路径探索来自动化<strong style="color:#ea580c;">依赖升级</strong>。升级依赖是所有供应链安全建议的最后一公里，也是最容易卡住的一环：修复存在、但升不上去。这个方向和补丁回移是同一个问题的两种形态。</p></section><section style="margin:36px 0 20px;"><p style="margin:0;font-size:44px;font-weight:800;color:#e2e8f0;line-height:1;">05</p><p style="margin:2px 0 0;font-size:11px;letter-spacing:3px;color:#94a3b8;">PATCH</p><p style="margin:6px 0 0;font-size:20px;font-weight:700;color:#222;">漏洞与补丁的传播</p><section style="width:36px;height:3px;background:#ea580c;margin-top:8px;"></section></section><section style="margin:18px 0;background:#f7f9fb;border-left:4px solid #ea580c;border-radius:0 6px 6px 0;padding:14px 18px;"><p style="margin:0;font-size:11px;letter-spacing:2px;color:#94a3b8;">13</p><p style="margin:4px 0 0;font-size:15px;font-weight:700;color:#1f2937;line-height:1.55;">Benchmarking Automated Security Patch Backporting: How Far Are We?</p><p style="margin:10px 0 0;padding-bottom:9px;border-bottom:1px solid #e3e8ee;font-size:13px;color:#ea580c;font-weight:600;line-height:1.6;">西安电子科技大学、南开大学、南洋理工大学</p><p style="margin:11px 0 0;font-size:14px;line-height:1.85;color:#3f3f3f;letter-spacing:.3px;text-align:justify;">1234 例真实回移案例的统一基准，把五个自动回移工具拉到同一张考卷上。<strong style="color:#ea580c;">本账号已解读过</strong>，核心结论是对齐评测后成功率集体跳水，结构复杂的补丁只剩 24%。</p></section><section style="margin:18px 0;background:#f7f9fb;border-left:4px solid #ea580c;border-radius:0 6px 6px 0;padding:14px 18px;"><p style="margin:0;font-size:11px;letter-spacing:2px;color:#94a3b8;">14</p><p style="margin:4px 0 0;font-size:15px;font-weight:700;color:#1f2937;line-height:1.55;">One Is Not Enough: The Untold Story of Multiple Security Patches for One Vulnerability</p><p style="margin:10px 0 0;padding-bottom:9px;border-bottom:1px solid #e3e8ee;font-size:13px;color:#ea580c;font-weight:600;line-height:1.6;">南开大学、南洋理工大学</p><p style="margin:11px 0 0;font-size:14px;line-height:1.85;color:#3f3f3f;letter-spacing:.3px;text-align:justify;">一个漏洞<strong style="color:#ea580c;">不止一个补丁</strong>。这件事对下游影响很直接：如果你的扫描器认定"打了某个补丁就算修复"，而上游实际上分了多次提交才补完，那你的合规状态就是假的。这类"看起来已修复"的情形，比未修复更危险。</p></section><section style="margin:18px 0;background:#f7f9fb;border-left:4px solid #ea580c;border-radius:0 6px 6px 0;padding:14px 18px;"><p style="margin:0;font-size:11px;letter-spacing:2px;color:#94a3b8;">15</p><p style="margin:4px 0 0;font-size:15px;font-weight:700;color:#1f2937;line-height:1.55;">Assessing the Cross-Version Applicability of Java Library Vulnerability Exploits</p><p style="margin:10px 0 0;padding-bottom:9px;border-bottom:1px solid #e3e8ee;font-size:13px;color:#ea580c;font-weight:600;line-height:1.6;">一个漏洞利用在这个版本能打通，换个版本还能不能打？这决定了漏洞情报里的"受影响版本范围"到底准不准。这篇评估 Java 库漏洞利用的<strong style="color:#ea580c;">跨版本适用性</strong>，直指版本范围虚标这个老问题：范围报宽了制造无效告警，报窄了漏掉真实风险。</p></section><section style="margin:18px 0;background:#f7f9fb;border-left:4px solid #ea580c;border-radius:0 6px 6px 0;padding:14px 18px;"><p style="margin:0;font-size:11px;letter-spacing:2px;color:#94a3b8;">16</p><p style="margin:4px 0 0;font-size:15px;font-weight:700;color:#1f2937;line-height:1.55;">Post-quantum Cryptography in the Wild: Assessing the Readiness of Open-Source Ecosystems</p><p style="margin:10px 0 0;padding-bottom:9px;border-bottom:1px solid #e3e8ee;font-size:13px;color:#ea580c;font-weight:600;line-height:1.6;">上海交通大学</p><p style="margin:11px 0 0;font-size:14px;line-height:1.85;color:#3f3f3f;letter-spacing:.3px;text-align:justify;">评估开源生态迁移到<strong style="color:#ea580c;">后量子密码</strong>的就绪度。这是一次超大规模的强制依赖升级预演，牵涉到密码库、协议实现和它们所有的下游，跟前面几篇讲的是同一类问题：<strong style="color:#ea580c;">修复能不能真的传到底</strong>。</p></section><section style="margin:18px 0;background:#f7f9fb;border-left:4px solid #ea580c;border-radius:0 6px 6px 0;padding:14px 18px;"><p style="margin:0;font-size:11px;letter-spacing:2px;color:#94a3b8;">17</p><p style="margin:4px 0 0;font-size:15px;font-weight:700;color:#1f2937;line-height:1.55;">Learning to Triage Vulnerability Reports from Program Analysis: An Empirical Study in Node.js</p><p style="margin:10px 0 0;padding-bottom:9px;border-bottom:1px solid #e3e8ee;font-size:13px;color:#ea580c;font-weight:600;line-height:1.6;">静态分析在 Node.js 生态里一跑就是成千上万条告警，人工根本看不过来，最后往往是整套工具被弃用。这篇研究怎么给这些<strong style="color:#ea580c;">漏洞报告做分诊</strong>。分诊做不好，检测能力再强也落不了地，这是生态级安全治理的现实瓶颈。</p></section><section style="margin:36px 0 20px;"><p style="margin:0;font-size:44px;font-weight:800;color:#e2e8f0;line-height:1;">06</p><p style="margin:2px 0 0;font-size:11px;letter-spacing:3px;color:#94a3b8;">TRUST</p><p style="margin:6px 0 0;font-size:20px;font-weight:700;color:#222;">签名与发布防线</p><section style="width:36px;height:3px;background:#ea580c;margin-top:8px;"></section></section><section style="margin:18px 0;background:#f7f9fb;border-left:4px solid #ea580c;border-radius:0 6px 6px 0;padding:14px 18px;"><p style="margin:0;font-size:11px;letter-spacing:2px;color:#94a3b8;">18</p><p style="margin:4px 0 0;font-size:15px;font-weight:700;color:#1f2937;line-height:1.55;">Not In My Git Yard: Catching Backdoors at Commit and Release Time</p><p style="margin:10px 0 0;padding-bottom:9px;border-bottom:1px solid #e3e8ee;font-size:13px;color:#ea580c;font-weight:600;line-height:1.6;">巴黎萨克雷大学、法国原子能委员会 CEA List</p><p style="margin:11px 0 0;font-size:14px;line-height:1.85;color:#3f3f3f;letter-spacing:.3px;text-align:justify;">在<strong style="color:#ea580c;">提交和发布这两个时间点</strong>上抓后门。这个选点很务实：包一旦发布出去，检测就变成了跟分发速度赛跑；而 commit 和 release 是攻击者必须经过的两道闸门，卡在这里成本最低。</p></section><section style="margin:18px 0;background:#f7f9fb;border-left:4px solid #ea580c;border-radius:0 6px 6px 0;padding:14px 18px;"><p style="margin:0;font-size:11px;letter-spacing:2px;color:#94a3b8;">19</p><p style="margin:4px 0 0;font-size:15px;font-weight:700;color:#1f2937;line-height:1.55;">Context-Aware Trust Verification for Identity-Based Software Signing</p><p style="margin:10px 0 0;padding-bottom:9px;border-bottom:1px solid #e3e8ee;font-size:13px;color:#ea580c;font-weight:600;line-height:1.6;">签名能证明"这个包是某个身份发布的"，但证明不了"这个身份值得信任"。这篇做<strong style="color:#ea580c;">上下文感知的信任验证</strong>，把签名从一次身份核对推进到结合上下文判断这次发布该不该信。签名基础设施铺开之后，信任判定就是下一个瓶颈。</p></section><section style="margin:18px 0;background:#f7f9fb;border-left:4px solid #ea580c;border-radius:0 6px 6px 0;padding:14px 18px;"><p style="margin:0;font-size:11px;letter-spacing:2px;color:#94a3b8;">20</p><p style="margin:4px 0 0;font-size:15px;font-weight:700;color:#1f2937;line-height:1.55;">A Longitudinal Study of Android Apps Signing Key Protection</p><p style="margin:10px 0 0;padding-bottom:9px;border-bottom:1px solid #e3e8ee;font-size:13px;color:#ea580c;font-weight:600;line-height:1.6;">安卓应用的<strong style="color:#ea580c;">签名密钥保护</strong>做得怎么样，而且是纵向研究，看多年演变。签名密钥是整条分发链的信任根，密钥一旦泄露，签名体系就从防线变成了帮凶，攻击者可以给恶意版本签上完全合法的名字。</p></section><section style="margin:36px 0 20px;"><p style="margin:0;font-size:44px;font-weight:800;color:#e2e8f0;line-height:1;">07</p><p style="margin:2px 0 0;font-size:11px;letter-spacing:3px;color:#94a3b8;">INDUSTRY</p><p style="margin:6px 0 0;font-size:20px;font-weight:700;color:#222;">工业界轨</p><section style="width:36px;height:3px;background:#ea580c;margin-top:8px;"></section></section><p style="margin:0 0 20px;font-size:15px;line-height:1.9;color:#3f3f3f;letter-spacing:.5px;text-align:justify;">Industry Showcase 轨更贴近真实生产环境的约束，这几篇值得单独看。</p><section style="margin:18px 0;background:#f7f9fb;border-left:4px solid #ea580c;border-radius:0 6px 6px 0;padding:14px 18px;"><p style="margin:0;font-size:11px;letter-spacing:2px;color:#94a3b8;">21</p><p style="margin:4px 0 0;font-size:15px;font-weight:700;color:#1f2937;line-height:1.55;">DepWareTrans: Dependency-Aware Incremental Repository Migration across Co-executable Languages</p><p style="margin:10px 0 0;padding-bottom:9px;border-bottom:1px solid #e3e8ee;font-size:13px;color:#ea580c;font-weight:600;line-height:1.6;">做<strong style="color:#ea580c;">依赖感知的仓库迁移</strong>，而且是跨可共同执行的语言、增量地迁。大规模迁移最难的从来不是翻译代码本身，是依赖关系跟不跟得过去，这也是迁移过程最容易引入供应链问题的环节。</p></section><section style="margin:18px 0;background:#f7f9fb;border-left:4px solid #ea580c;border-radius:0 6px 6px 0;padding:14px 18px;"><p style="margin:0;font-size:11px;letter-spacing:2px;color:#94a3b8;">22</p><p style="margin:4px 0 0;font-size:15px;font-weight:700;color:#1f2937;line-height:1.55;">AgenticSCR: An Autonomous Agentic Secure Code Review for Immature Vulnerabilities Detection</p><p style="margin:10px 0 0;padding-bottom:9px;border-bottom:1px solid #e3e8ee;font-size:13px;color:#ea580c;font-weight:600;line-height:1.6;">用自主智能体做<strong style="color:#ea580c;">安全代码审查</strong>，目标定在"尚未成型的漏洞"。这个提法有意思：它不等漏洞长成可利用的形态再抓，而是在代码评审阶段就识别出苗头，属于把防线往上游挪。</p></section><section style="margin:18px 0;background:#f7f9fb;border-left:4px solid #ea580c;border-radius:0 6px 6px 0;padding:14px 18px;"><p style="margin:0;font-size:11px;letter-spacing:2px;color:#94a3b8;">23</p><p style="margin:4px 0 0;font-size:15px;font-weight:700;color:#1f2937;line-height:1.55;">Vulnerability Tracking using Normalized Scope+Offset</p><p style="margin:10px 0 0;padding-bottom:9px;border-bottom:1px solid #e3e8ee;font-size:13px;color:#ea580c;font-weight:600;line-height:1.6;">用归一化的作用域加偏移来<strong style="color:#ea580c;">追踪漏洞</strong>。代码一改动漏洞的位置就漂了，然后同一个问题会被重复报、或者被误判成已修复。这类定位问题看着琐碎，却是漏洞管理系统能不能长期跑准的地基。</p></section><section style="margin:18px 0;background:#f7f9fb;border-left:4px solid #ea580c;border-radius:0 6px 6px 0;padding:14px 18px;"><p style="margin:0;font-size:11px;letter-spacing:2px;color:#94a3b8;">24</p><p style="margin:4px 0 0;font-size:15px;font-weight:700;color:#1f2937;line-height:1.55;">An Empirical Study of Security Risks in the Android Push Notification Ecosystem</p><p style="margin:10px 0 0;padding-bottom:9px;border-bottom:1px solid #e3e8ee;font-size:13px;color:#ea580c;font-weight:600;line-height:1.6;">安卓<strong style="color:#ea580c;">推送生态</strong>的安全风险实证。推送是典型的第三方 SDK 供应链：应用集成的是别人的 SDK，消息通道经过别人的服务器，而这条链上的每一环对应用开发者都是黑箱。</p></section><section style="margin:36px 0 20px;"><p style="margin:0;font-size:44px;font-weight:800;color:#e2e8f0;line-height:1;">08</p><p style="margin:2px 0 0;font-size:11px;letter-spacing:3px;color:#94a3b8;">TAKEAWAYS</p><p style="margin:6px 0 0;font-size:20px;font-weight:700;color:#222;">一点观察</p><section style="width:36px;height:3px;background:#ea580c;margin-top:8px;"></section></section><p style="margin:0 0 20px;font-size:15px;line-height:1.9;color:#3f3f3f;letter-spacing:.5px;text-align:justify;"><strong style="color:#ea580c;">智能体与模型供应链已经单独成一支了。</strong> Agent Skill 相关的论文进入 ASE 主轨，分工很清楚：一篇做恶意检测，一篇做生态级克隆识别，一篇做凭据泄露实证；再加上模型配置制品和 AI 原生 IDE 两篇，攻击面已经从"技能本身"扩到了"承载技能的整个开发与运行环境"。这个结构和十年前包生态刚起步时几乎一模一样，先有人发现恶意样本，再有人做规模化测量，然后才是检测工具和治理机制。<strong style="color:#dc2626;">技能生态正在用比包生态快得多的速度，重走同一条路</strong>。</p><p style="margin:0 0 20px;font-size:15px;line-height:1.9;color:#3f3f3f;letter-spacing:.5px;text-align:justify;"><strong style="color:#ea580c;">"修复传不到底"是这批论文最集中的母题。</strong> 补丁回移、一个漏洞多个补丁、依赖升级自动化、漏洞利用的跨版本适用性、后量子迁移就绪度，五篇讲的其实是同一件事的不同切面：漏洞的修复往往是存在的，真正的风险在于它到不了所有下游。这个判断比"某某组件有漏洞"更有行动价值，因为它指向的是流程和工具，而不是某一个具体的洞。</p><p style="margin:0 0 20px;font-size:15px;line-height:1.9;color:#3f3f3f;letter-spacing:.5px;text-align:justify;"><strong style="color:#ea580c;">信任根这条线今年明显变粗了。</strong> 签名的信任验证、签名密钥保护、提交与发布时的后门拦截，三篇都落在同一个位置：<strong style="color:#ea580c;">分发环节</strong>。过去我们默认签名体系是可信的、只讨论签名之上的东西，现在开始有人系统地问签名本身牢不牢。</p><p style="margin:0 0 20px;font-size:15px;line-height:1.9;color:#3f3f3f;letter-spacing:.5px;text-align:justify;"><strong style="color:#ea580c;">方法论上有个共同转向：从"检测单个制品"转向"理解整个生态的结构"。</strong> 复用谱系、生态分类体系、隐式依赖、克隆关系，这几篇都不是在判断某个包是好是坏，而是在还原"谁来自谁、谁包含谁"。这种结构性知识才是风险传播分析的底座，也是目前最缺的基础设施。</p></section>
